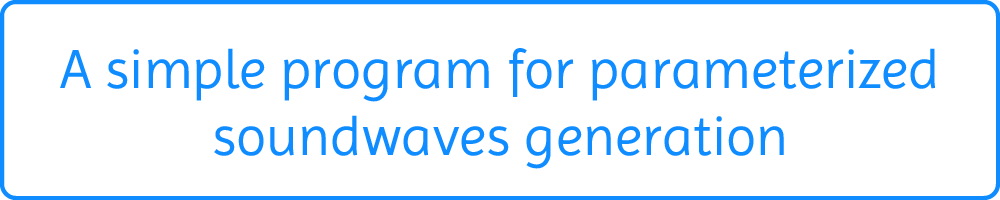
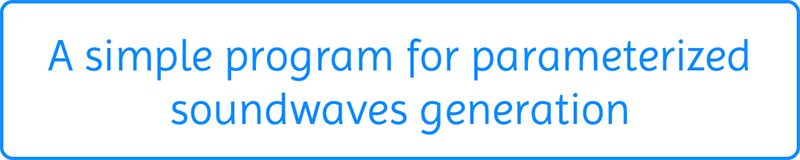
Finished adding components to UII
Added logic to play/stop button. Changed default values of sliders to match with WaveParameter class.

diff --git a/Aleatoric/Main.cpp b/Aleatoric/Main.cpp
@@ -12,20 +12,22 @@ using namespace std;
 
 int main(int argc, char** argv)
 {
-	sf::SoundBuffer sound;
+	sf::SoundBuffer soundBuffer;
+	sf::Sound sounds;
 	WaveParameters params;
 	WaveGenerator wave;
 	bool randomize = false;
+	bool playing = false;
 
 	// Create the main window
-	sf::RenderWindow app(sf::VideoMode(1500, 1030), "Lofi-Aleatory", sf::Style::Close);
+	sf::RenderWindow app(sf::VideoMode(1200, 840), "Lofi-Aleatory", sf::Style::Close);
 	app.setFramerateLimit(30);
 
 	gui::Menu menu(app);
 	menu.setPosition(0, 0);
 
 	gui::Theme::loadFont("Assets/Georama-Semibold.ttf");
-	gui::Theme::textSize = 100;
+	gui::Theme::textSize = 65;
 	gui::Theme::PADDING = 40.0f;
 	gui::Theme::MARGIN = 10.0f;
 	gui::Theme::windowBgColor = sf::Color(210, 230, 240, 255);
@@ -41,6 +43,8 @@ int main(int argc, char** argv)
 	titleAndDescription->add(titleCard);
 	titleAndDescription->add(descriptionCard);
 
+	
+
 	//Main interface
 	gui::HBoxLayout* main = menu.addHBoxLayout();
 	gui::VBoxLayout* col1 = main->addVBoxLayout();
@@ -48,38 +52,37 @@ int main(int argc, char** argv)
 	gui::VBoxLayout* col3 = main->addVBoxLayout();
 
 
-	//Root note selector
-	gui::HBoxLayout* rootSelector = col2->addHBoxLayout();
-	gui::TextBox* rootTextBox = new gui::TextBox(390);
-	rootTextBox->setText("45");
-	rootTextBox->setMaxLength(3);
-	rootTextBox->setCallback([&]() {
-		try {
-		params.setRootKey(stoi(static_cast<string>(rootTextBox->getText())));
-	}
-	catch (const std::exception& e) {
-		cout << e.what() << endl;
-	};
+
+
+	// Slider for root
+	gui::HBoxLayout* rootSelector = col3->addHBoxLayout();
+	gui::Slider* rootSlider = new gui::Slider(288.0f, gui::Horizontal);
+	rootSlider->setStep(1);
+	rootSlider->setValue(25);
+	rootSlider->setCallback([&]() {
+		int input = rootSlider->getValue() * 0.94 + 21;
+		params.setRootKey(input);
+		params.SetRootKeyCharacter(input);
 	params.display();
 		});
 
-	sf::Texture rootTextBoxTexture;
-	rootTextBoxTexture.loadFromFile("Assets/labels-10.png");
-	gui::Image* rootLabel = new gui::Image(rootTextBoxTexture);
+	sf::Texture rootLabelTexture;
+	rootLabelTexture.loadFromFile("Assets/labels-10.png");
+	gui::Image* rootLabel = new gui::Image(rootLabelTexture);
 
 	rootSelector->add(rootLabel);
-	rootSelector->add(rootTextBox);
+	rootSelector->add(rootSlider);
 
 
 
 
 	// Slider for ramp
 	gui::HBoxLayout* rampSelector = col3->addHBoxLayout();
-	gui::Slider* rampSlider = new gui::Slider(360.0f, gui::Horizontal);
+	gui::Slider* rampSlider = new gui::Slider(288.0f, gui::Horizontal);
 	rampSlider->setStep(1);
+	rampSlider->setValue(100);
 	rampSlider->setCallback([&]() {
 		params.setRamp(rampSlider->getValue() * 0.005f);
-	cout << rampSelector->getAbsolutePosition().x << endl;
 	params.display();
 		});
 
@@ -93,10 +96,10 @@ int main(int argc, char** argv)
 
 	// Slider for BMP
 	gui::HBoxLayout* bpmSelector = col3->addHBoxLayout();
-	gui::Slider* bpmSlider = new gui::Slider(360.0f, gui::Horizontal);
+	gui::Slider* bpmSlider = new gui::Slider(288.0f, gui::Horizontal);
 	bpmSlider->setStep(1);
 	bpmSlider->setCallback([&]() {
-		params.setBPM(bpmSlider->getValue() * 2.4);
+		params.setBPM(bpmSlider->getValue() * 2.2 + 20);
 	params.display();
 		});
 
@@ -110,8 +113,9 @@ int main(int argc, char** argv)
 
 	// Slider for Volume
 	gui::HBoxLayout* volSelector = col3->addHBoxLayout();
-	gui::Slider* volSlider = new gui::Slider(360.0f, gui::Horizontal);
+	gui::Slider* volSlider = new gui::Slider(288.0f, gui::Horizontal);
 	volSlider->setStep(1);
+	volSlider->setValue(80);
 	volSlider->setCallback([&]() {
 		params.setVolume(volSlider->getValue() * 0.1);
 	params.display();
@@ -131,14 +135,26 @@ int main(int argc, char** argv)
 	col2->add(playButton);
 	playButton->setCallback([&]
 		{
-			try {
-			params.setRootKey(stoi(static_cast<string>(rootTextBox->getText())));
-		}
-			catch (const std::exception& e) {
-			cout << e.what() << endl;
-	}
-	//wave.playWave(params);
+			if (sounds.getStatus() != sf::Sound::Playing)
+			playing = true;
 		});
+
+	//Stop button
+	sf::Texture stopButtonBackground;
+	sf::Texture stopButtonActive;
+	bool isStop = false;
+	sf::Texture random;
+	stopButtonBackground.loadFromFile("Assets/stopButtonSprites.png");
+	stopButtonActive.loadFromFile("Assets/randomButtonSprites.png");
+	gui::SpriteButton* stopButton = new gui::SpriteButton(stopButtonBackground);
+	col2->add(stopButton);
+	stopButton->setCallback([&]()
+		{
+			playing = false;
+			stopButton->toggleTexture(stopButtonBackground);
+			wave.stopWave(sounds);
+		}
+	);
 
 
 	//Randomize button
@@ -154,6 +170,12 @@ int main(int argc, char** argv)
 	params.display();
 		});
 
+	sf::Texture toolTipCardTexture;
+	toolTipCardTexture.loadFromFile("Assets/toolTipSprites.png");
+	gui::Image* toolTipCard = new gui::Image(toolTipCardTexture);
+	col2->add(toolTipCard);
+
+
 
 	// Sine wave button
 	sf::Texture sineWaveBackground;
@@ -162,7 +184,7 @@ int main(int argc, char** argv)
 	sineWaveButton->setTextSize(10);
 	col1->add(sineWaveButton);
 	sineWaveButton->setCallback([&] {
-		std::cout << "click!" << std::endl;
+		sineWaveButton->toggleTexture(sineWaveBackground);
 	params.setWaveType("sine");
 	params.display();
 		});
@@ -174,7 +196,6 @@ int main(int argc, char** argv)
 	squareWaveButton->setTextSize(10);
 	col1->add(squareWaveButton);
 	squareWaveButton->setCallback([&] {
-		std::cout << "click!" << std::endl;
 	params.setWaveType("square");
 	params.display();
 		});
@@ -186,7 +207,6 @@ int main(int argc, char** argv)
 	sawWaveButton->setTextSize(10);
 	col1->add(sawWaveButton);
 	sawWaveButton->setCallback([&] {
-		std::cout << "click!" << std::endl;
 	params.setWaveType("saw");
 	params.display();
 		});
@@ -198,12 +218,10 @@ int main(int argc, char** argv)
 	triangleWaveButton->setTextSize(10);
 	col1->add(triangleWaveButton);
 	triangleWaveButton->setCallback([&] {
-		std::cout << "click!" << std::endl;
 	params.setWaveType("triangle");
 	params.display();
 		});
 
-	sf::Sound sounds;
 	// Start the application loop
 	while (app.isOpen())
 	{
@@ -221,10 +239,10 @@ int main(int argc, char** argv)
 		app.clear(gui::Theme::windowBgColor);
 		app.draw(menu);
 		// Update the window
-		while (sounds.getStatus() != sf::Sound::Playing)
+		while (playing && sounds.getStatus() != sf::Sound::Playing)
 		{
-			wave.playWave(params, sound);
-			sounds.setBuffer(sound);
+			wave.playWave(params, soundBuffer);
+			sounds.setBuffer(soundBuffer);
 			sounds.play();
 		}
 		app.display();
@@ -232,3 +250,4 @@ int main(int argc, char** argv)
 
 	return EXIT_SUCCESS;
 }
+

diff --git a/Aleatoric/Gui/SpriteButton.cpp b/Aleatoric/Gui/SpriteButton.cpp
@@ -55,6 +55,24 @@ void SpriteButton::setTextSize(size_t size)
     centerText(m_text);
 }
 
+void SpriteButton::setTexture(const sf::Texture& texture)
+{
+    size_t width = texture.getSize().x;
+    size_t height = texture.getSize().y / 3; // default, hover, focus
+
+    m_background.setTexture(texture);
+    m_background.setTextureRect(sf::IntRect(0, 0, width, height));
+}
+
+void SpriteButton::toggleTexture(const sf::Texture& texture) {
+    m_background.setTexture(texture);
+    sf::Vector2f size = getSize();
+    static bool enabled = false;
+    if (enabled)
+        m_background.setTextureRect(sf::IntRect(0, 0, size.x, size.y));
+    else
+        m_background.setTextureRect(sf::IntRect(0, 2*size.y, size.x, 2*size.y));
+}
 
 void SpriteButton::draw(sf::RenderTarget& target, sf::RenderStates states) const
 {
@@ -78,6 +96,7 @@ void SpriteButton::onStateChanged(State state)
         m_background.setTextureRect(sf::IntRect(0, size.y, size.x, size.y));
         break;
     case StatePressed:
+        m_background.setTextureRect(sf::IntRect(0, size.y, size.x, size.y));
     case StateFocused:
         m_background.setTextureRect(sf::IntRect(0, size.y * 2, size.x, size.y));
         break;

diff --git a/Aleatoric/WaveGenerator.cpp b/Aleatoric/WaveGenerator.cpp
@@ -31,7 +31,7 @@ void WaveGenerator::playWave(WaveParameters& args, sf::SoundBuffer& lofiSample)
 }
 
 
-void WaveGenerator::stopWave() {
+void WaveGenerator::stopWave(sf::Sound& sound) {
 	if (sound.getStatus() == sf::Sound::Playing)
 		sound.stop();
 }
@@ -112,8 +112,6 @@ float WaveGenerator::GenerateAmplitude(float volume)
 
 void WaveGenerator::GenerateWave(WaveParameters& params, float freq, sf::SoundBuffer& buffer)
 {
-	if (params.parameters.random)
-		params.parameters.waveType = static_cast<waveEnum>(rand() % 4);
 	if (params.parameters.waveType == sine)
 		GenerateSineWave(params, freq, buffer);
 	else if (params.parameters.waveType == triangle)

diff --git a/Aleatoric/Gui/SpriteButton.hpp b/Aleatoric/Gui/SpriteButton.hpp
@@ -24,6 +24,8 @@ public:
 
     void setTexture(const sf::Texture& texture);
 
+    void toggleTexture(const sf::Texture&);
+
     void onStateChanged(State state) override;
     void onMouseMoved(float x, float y) override;
     void onMousePressed(float x, float y) override;

diff --git a/Aleatoric/WaveGenerator.h b/Aleatoric/WaveGenerator.h
@@ -8,7 +8,7 @@ class WaveGenerator
 {
 public:
 	void playWave(WaveParameters& args, sf::SoundBuffer& lofiSample);
-	void stopWave();
+	void stopWave(sf::Sound& sound);
 private:
 	sf::SoundBuffer lofiSample;
 	sf::Sound sound;
